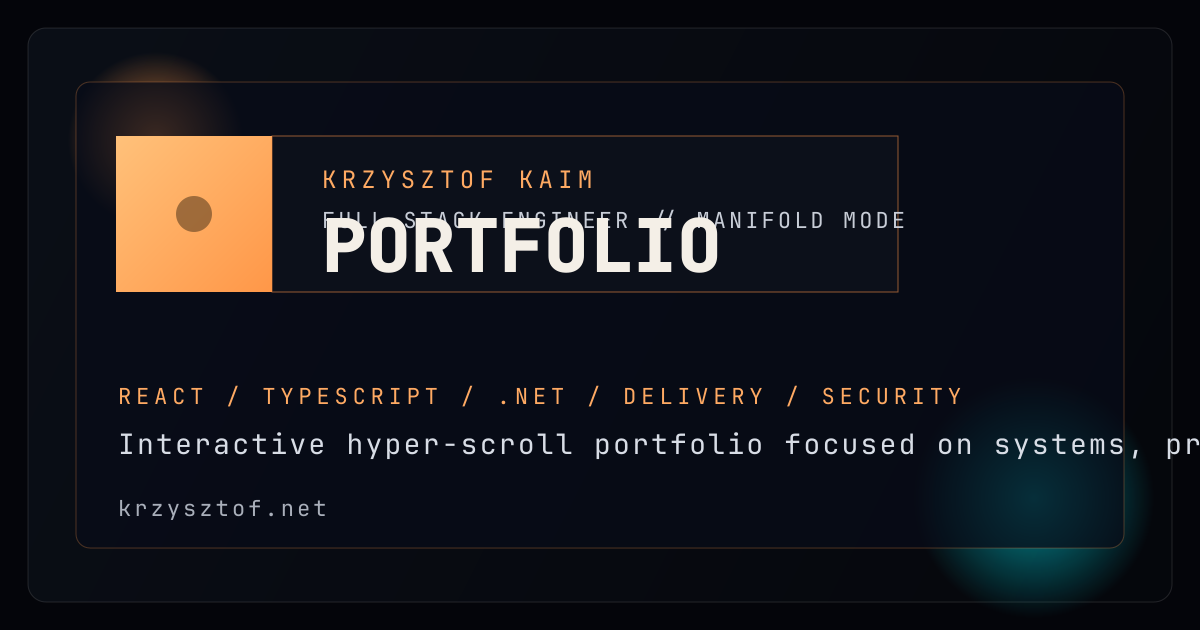
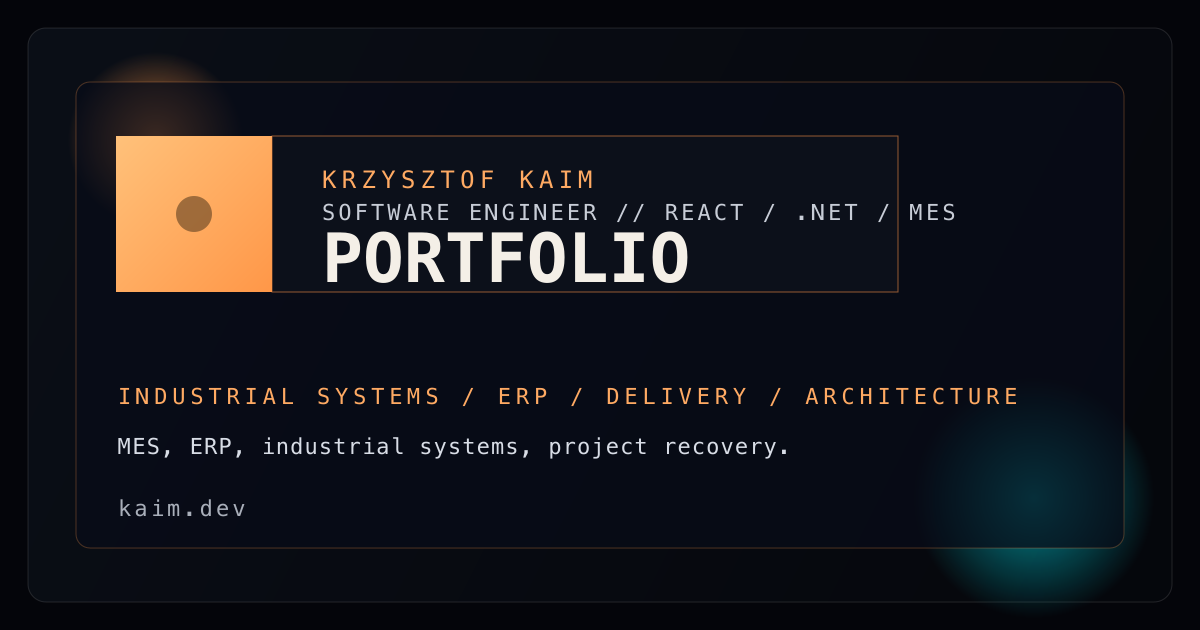
seo: align kaim.dev metadata and social previews

diff --git a/src/config/siteMetadata.ts b/src/config/siteMetadata.ts
@@ -21,8 +21,11 @@ export const siteMetadata = {
     'astro portfolio'
   ],
   name: 'Krzysztof Kaim',
-  profession: 'Full-Stack Software Engineer, Lead Engineer and Solution Architect specializing in React, .NET and enterprise rescue projects',
-  sameAs: [],
+  profession: 'Software Engineer, Lead Engineer and Solution Architect specializing in React, .NET, MES, ERP integrations and industrial systems',
+  sameAs: [
+    'https://github.com/krzysztofkaim',
+    'https://www.linkedin.com/in/krzysztofkaim/'
+  ],
   socialImagePath: '/social-card.png',
   titleTemplate: '%s | Krzysztof Kaim',
   websiteName: 'Krzysztof Kaim'
@@ -30,9 +33,9 @@ export const siteMetadata = {
 
 export const homePageSeoCopy = {
   en: {
-    headline: 'Krzysztof Kaim | Full-Stack Software Engineer Portfolio',
+    headline: 'Krzysztof Kaim | Software Engineer for React, .NET and Industrial Systems',
     intro:
-      'Portfolio of Krzysztof Kaim, a full-stack software engineer focused on React, .NET, systems architecture, distressed-project recovery, enterprise integrations and end-to-end delivery.',
+      'Krzysztof Kaim is a software engineer specializing in React, TypeScript, .NET, MES, ERP integrations, industrial systems, and distressed enterprise project recovery.',
     sections: [
       'Profile covering engineering focus, delivery style and technical range.',
       'Deployments covering production work in enterprise, consulting and education contexts.',
@@ -42,9 +45,9 @@ export const homePageSeoCopy = {
     ]
   },
   pl: {
-    headline: 'Krzysztof Kaim | Portfolio Full-Stack Software Engineera',
+    headline: 'Krzysztof Kaim | Software Engineer dla React, .NET i systemów przemysłowych',
     intro:
-      'Portfolio Krzysztofa Kaima, full-stack software engineera skupionego na React, .NET, architekturze systemów, ratowaniu trudnych projektów, integracjach enterprise i end-to-end delivery.',
+      'Krzysztof Kaim to software engineer specjalizujący się w React, TypeScript, .NET, systemach MES, integracjach ERP, systemach przemysłowych i ratowaniu trudnych projektów enterprise.',
     sections: [
       'Profil: fokus inżynierski, styl dowożenia i zakres techniczny.',
       'Wdrożenia: praca produkcyjna w środowiskach enterprise, consultingu i edukacji.',

diff --git a/src/i18n/locales/pl.ts b/src/i18n/locales/pl.ts
@@ -515,9 +515,10 @@ export const PL_BUNDLE: ManifoldLocaleBundle = {
   document: {
     cvDownloadFileName: 'krzysztof_kaim_resume.pdf',
     cvDownloadHref: '/files/krzysztof_kaim_resume.pdf',
-    description: 'Pełnoekranowe portfolio manifold mode z dynamicznym hyper-scrolllem.',
+    description:
+      'Krzysztof Kaim to software engineer specjalizujący się w React, TypeScript, .NET, systemach MES, integracjach ERP i systemach przemysłowych.',
     lang: 'pl',
-    title: 'Krzysztof Kaim — Senior Software Engineer'
+    title: 'Krzysztof Kaim Software Engineer | React, .NET, MES'
   },
   sectionLabels: {
     PROFILE: 'PROFIL',

diff --git a/src/i18n/locales/en.ts b/src/i18n/locales/en.ts
@@ -531,9 +531,10 @@ export const EN_BUNDLE: ManifoldLocaleBundle = {
   document: {
     cvDownloadFileName: 'krzysztof_kaim_resume.pdf',
     cvDownloadHref: '/files/krzysztof_kaim_resume.pdf',
-    description: 'Fullscreen manifold mode hyper-scroll experience.',
+    description:
+      'Krzysztof Kaim is a software engineer specializing in React, TypeScript, .NET, MES, ERP integrations, industrial systems, and enterprise project recovery.',
     lang: 'en',
-    title: 'Krzysztof Kaim — Senior Software Engineer'
+    title: 'Krzysztof Kaim Software Engineer | React, .NET, MES'
   },
   sectionLabels: {
     PROFILE: 'PROFILE',

diff --git a/src/pages/sitemap.xml.ts b/src/pages/sitemap.xml.ts
@@ -3,7 +3,7 @@ import type { APIRoute } from 'astro';
 export const prerender = true;
 
 export const GET: APIRoute = ({ site }) => {
-  const baseUrl = site?.toString().replace(/\/$/, '') ?? 'https://krzysztof.net';
+  const baseUrl = site?.toString().replace(/\/$/, '') ?? 'https://kaim.dev';
   const lastModified = new Date().toISOString();
   const urls = [
     {

diff --git a/src/pages/robots.txt.ts b/src/pages/robots.txt.ts
@@ -3,7 +3,7 @@ import type { APIRoute } from 'astro';
 export const prerender = true;
 
 export const GET: APIRoute = ({ site }) => {
-  const baseUrl = site?.toString().replace(/\/$/, '') ?? 'https://krzysztof.net';
+  const baseUrl = site?.toString().replace(/\/$/, '') ?? 'https://kaim.dev';
   const body = [
     'User-agent: *',
     'Allow: /',
